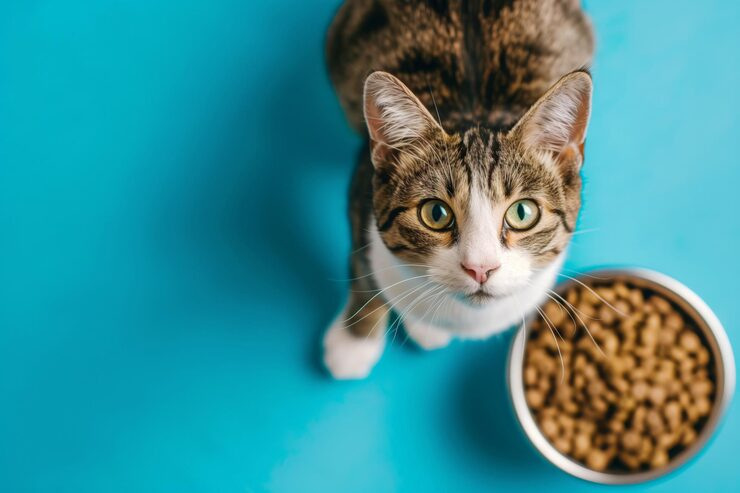
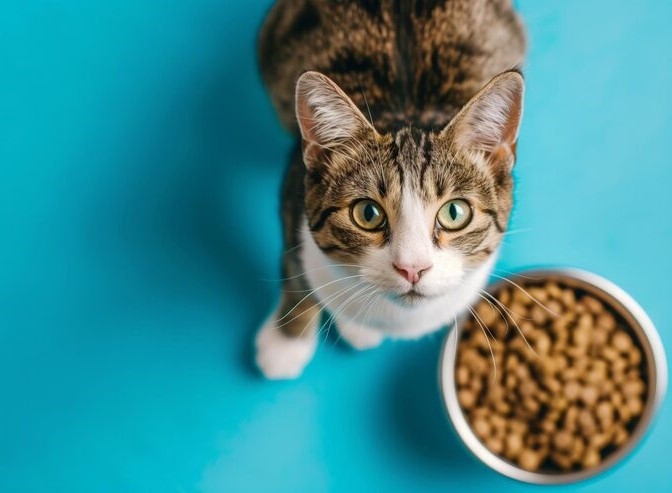
fix: enhanced readability and text contrast weights across cat registry views

diff --git a/cats/list.php b/cats/list.php
@@ -19,14 +19,16 @@ die(pg_last_error($conn));
 <div class="flex">
 <div class="flex-1 p-6">
     
-    <!-- HEADER BAR WITH PASTEL BLUE ACCENTS -->
-    <div class="flex justify-between items-center mb-8 border-b border-sky-100 pb-4">
+    <!-- HEADER BAR WITH INTENSIFIED HIGH-CONTRAST TYPOGRAPHY -->
+    <div class="flex justify-between items-center mb-8 border-b border-sky-200 pb-4">
         <div>
-            <h2 class="text-3xl font-bold text-slate-800 tracking-tight">Available Cats</h2>
-            <p class="text-slate-500 text-sm mt-1">Find lovely cats waiting for a home in Johor Bahru.</p>
+            <!-- FIXED CONTRAST: Changed text-slate-800 to text-slate-900 / font-black -->
+            <h2 class="text-4xl font-black text-slate-900 tracking-tight">Available Cats</h2>
+            <!-- FIXED CONTRAST: Changed text-slate-500 to text-slate-800 / font-semibold -->
+            <p class="text-slate-800 font-semibold text-sm mt-1">Find lovely cats waiting for a home in Johor Bahru.</p>
         </div>
         <?php if ($role == "Admin" || $role == "Staff") { ?>
-            <a href="add.php" class="bg-sky-500 hover:bg-sky-600 text-white font-semibold px-5 py-2.5 rounded-xl shadow-md hover:shadow-lg transition-all duration-200 text-sm flex items-center gap-2">
+            <a href="add.php" class="bg-sky-600 hover:bg-sky-700 text-white font-bold px-5 py-2.5 rounded-xl shadow-md transition-all duration-200 text-sm flex items-center gap-2">
                 <span class="text-base">＋</span> Add New Cat
             </a>
         <?php } ?>
@@ -35,7 +37,7 @@ die(pg_last_error($conn));
     <!-- MODERN PASTEL CATALOG CARD GRID -->
     <div class="grid grid-cols-1 md:grid-cols-2 lg:grid-cols-3 gap-6">
         <?php while ($row = pg_fetch_assoc($result)) { ?>
-            <div class="bg-white rounded-3xl border border-sky-100/60 shadow-sm hover:shadow-xl transition-all duration-300 overflow-hidden flex flex-col justify-between group">
+            <div class="bg-white rounded-3xl border border-sky-100 shadow-sm hover:shadow-xl transition-all duration-300 overflow-hidden flex flex-col justify-between group">
                 <div>
                     <!-- Image Container with Aspect Ratio -->
                     <?php if ($row['image']) { ?> 
@@ -44,48 +46,52 @@ die(pg_last_error($conn));
                                  class="w-full h-full object-cover transform group-hover:scale-105 transition duration-500"
                                  alt="<?php echo $row['name']; ?>">
                             <!-- Absolute Status Badge -->
-                            <span class="absolute top-4 right-4 bg-sky-100/90 backdrop-blur-md text-sky-700 text-xs font-bold px-3 py-1.5 rounded-full shadow-sm tracking-wide">
+                            <span class="absolute top-4 right-4 bg-sky-600 text-white text-xs font-extrabold px-3 py-1.5 rounded-full shadow-sm tracking-wide">
                                 <?php echo $row['status']; ?>
                             </span>
                         </div>
                     <?php } else { ?>
-                        <!-- Fallback empty state space using your 3 cats concept icon -->
-                        <div class="aspect-[4/3] bg-sky-50/50 flex flex-col items-center justify-center text-sky-300 gap-2">
+                        <!-- Fallback empty state space -->
+                        <div class="aspect-[4/3] bg-sky-50 flex flex-col items-center justify-center text-sky-400 gap-2">
                             <span class="text-4xl">🐈</span>
-                            <span class="text-xs font-medium">No Image Uploaded</span>
+                            <span class="text-xs font-bold uppercase tracking-wider">No Image Uploaded</span>
                         </div>
                     <?php } ?>
 
                     <!-- Content Details -->
                     <div class="p-6">
                         <div class="flex justify-between items-start gap-2 mb-3">
-                            <h3 class="text-2xl font-bold text-slate-800 group-hover:text-sky-600 transition duration-200 truncate">
+                            <!-- FIXED CONTRAST: Changed text-slate-800 to text-slate-900 / font-black -->
+                            <h3 class="text-2xl font-black text-slate-900 group-hover:text-sky-600 transition duration-200 truncate">
                                 <a href="/PawTrack/cats/view.php?id=<?php echo $row['catid']; ?>">
                                     <?php echo $row['name']; ?>
                                 </a>
                             </h3>
-                            <span class="bg-sky-50 text-sky-600 text-xs font-semibold px-2.5 py-1 rounded-lg border border-sky-100/50 uppercase tracking-wider shrink-0 mt-1">
+                            <span class="bg-sky-50 text-sky-700 text-xs font-bold px-2.5 py-1 rounded-lg border border-sky-200 uppercase tracking-wider shrink-0 mt-1">
                                 <?php echo $row['breed']; ?>
                             </span>
                         </div>
 
-                        <!-- Scannable Meta Grid -->
-                        <div class="space-y-2.5 mt-4 pt-4 border-t border-slate-50 text-sm text-slate-600">
+                        <!-- Scannable Meta Grid (Text darkened to avoid drowning out) -->
+                        <div class="space-y-2.5 mt-4 pt-4 border-t border-slate-100 text-sm text-slate-700">
                             <div class="flex items-center gap-3">
-                                <span class="text-base text-sky-400 w-5 text-center">📊</span>
-                                <p><b class="text-slate-700">Age Group:</b> <?php echo $row['agecategory']; ?></p>
+                                <span class="text-base text-sky-600 w-5 text-center">📊</span>
+                                <!-- FIXED CONTRAST: Darkened sub-elements to text-slate-800 -->
+                                <p class="text-slate-800"><b class="text-slate-900 font-bold">Age Group:</b> <?php echo $row['agecategory']; ?></p>
                             </div>
                             <div class="flex items-center gap-3">
-                                <span class="text-base text-sky-400 w-5 text-center">📍</span>
-                                <p><b class="text-slate-700">Shelter:</b> <?php echo $row['sheltername']; ?></p>
+                                <span class="text-base text-sky-600 w-5 text-center">📍</span>
+                                <!-- FIXED CONTRAST: Darkened sub-elements to text-slate-800 -->
+                                <p class="text-slate-800"><b class="text-slate-900 font-bold">Shelter:</b> <?php echo $row['sheltername']; ?></p>
                             </div>
                         </div>
                     </div>
                 </div>
 
                 <!-- Footer Operations / Interactive Buttons -->
-                <div class="p-6 pt-0 mt-2 flex items-center justify-between border-t border-slate-50/80 pt-4">
-                    <a href="/PawTrack/cats/view.php?id=<?php echo $row['catid']; ?>" class="text-sm font-semibold text-slate-500 hover:text-sky-600 transition duration-200 flex items-center gap-1 group/link">
+                <div class="p-6 pt-0 mt-2 flex items-center justify-between border-t border-slate-100 pt-4">
+                    <!-- FIXED CONTRAST: Changed text-slate-500 to text-slate-700 / font-bold -->
+                    <a href="/PawTrack/cats/view.php?id=<?php echo $row['catid']; ?>" class="text-sm font-bold text-slate-700 hover:text-sky-600 transition duration-200 flex items-center gap-1 group/link">
                         View Profile <span class="transform group-hover/link:translate-x-0.5 transition duration-200">→</span>
                     </a>
                     
@@ -93,7 +99,7 @@ die(pg_last_error($conn));
                         <!-- ADOPTER VIEW -->
                         <?php if (!$role || $role == "Adopter") { ?>
                             <a href="/PawTrack/auth/login.php?redirect=/PawTrack/adoption/add.php?catid=<?php echo $row['catid']; ?>" 
-                               class="bg-sky-500 hover:bg-sky-600 text-white font-semibold px-4 py-2 rounded-xl text-xs shadow-sm hover:shadow transition-all duration-200">
+                               class="bg-sky-500 hover:bg-sky-600 text-white font-bold px-4 py-2 rounded-xl text-xs shadow-sm transition-all duration-200">
                                 Adopt Me
                             </a>
                         <?php } ?>
@@ -101,7 +107,7 @@ die(pg_last_error($conn));
                         <!-- MANAGEMENT PRIVILEGES -->
                         <?php if ($role == "Admin" || $role == "Staff") { ?>
                             <a href="edit.php?id=<?php echo $row['catid']; ?>" 
-                               class="border border-sky-200 hover:bg-sky-50 text-sky-600 font-semibold px-4 py-2 rounded-xl text-xs transition duration-200">
+                               class="border border-sky-300 hover:bg-sky-50 text-sky-600 font-bold px-4 py-2 rounded-xl text-xs transition duration-200">
                                 Edit
                             </a>
                         <?php } ?>

diff --git a/index.php b/index.php
@@ -55,44 +55,39 @@ $total_shelters = pg_fetch_assoc(pg_query($conn, "SELECT COUNT(*) AS total FROM 
     </div>
 
     <div class="space-y-6">
-        <h3 class="text-xs font-bold uppercase tracking-widest text-slate-400">Integrated Core Architecture Modules</h3>
+        <h3 class="text-xs font-extrabold uppercase tracking-widest text-slate-900">
+            Integrated Core Architecture Modules
+        </h3>
         
         <div class="grid grid-cols-1 md:grid-cols-3 gap-6">
             
-            <a href="/PawTrack/cats/list.php" class="group bg-white p-6 rounded-2xl border border-sky-100/60 shadow-sm hover:shadow-md hover:-translate-y-0.5 transition duration-200 flex flex-col justify-between">
+<!-- CARD 1: FELINE REGISTRY -->
+            <a href="/PawTrack/cats/list.php" class="...">
                 <div>
-                    <div class="w-10 h-10 bg-slate-50 border border-slate-100 text-slate-600 rounded-xl flex items-center justify-center mb-4 group-hover:bg-sky-500 group-hover:text-white group-hover:border-sky-500 transition duration-200">
-                        <svg class="w-5 h-5" fill="none" stroke="currentColor" viewBox="0 0 24 24" xmlns="http://www.w3.org/2000/svg">
-                            <path stroke-linecap="round" stroke-linejoin="round" stroke-width="2" d="M21 21l-6-6m2-5a7 7 0 11-14 0 7 7 0 0114 0z"></path>
-                        </svg>
-                    </div>
-                    <h4 class="text-md font-bold text-slate-800 group-hover:text-sky-600 transition">Search Feline Profiles</h4>
-                    <p class="text-slate-400 text-xs mt-1 leading-relaxed">View active records, behavioral parameters, check daily cage management statuses, and verify medical validation readiness maps.</p>
+                    ...
+                    <h4 class="text-md font-bold text-slate-900 group-hover:text-sky-600 transition">Search Feline Profiles</h4>
+                    <!-- FIXED CONTRAST: Changed from text-slate-400 to text-slate-600 -->
+                    <p class="text-slate-600 text-xs mt-1 leading-relaxed">View active records, behavioral parameters, check daily cage management statuses, and verify medical validation readiness maps.</p>
                 </div>
             </a>
 
-            <a href="/PawTrack/donations/add.php" class="group bg-white p-6 rounded-2xl border border-sky-100/60 shadow-sm hover:shadow-md hover:-translate-y-0.5 transition duration-200 flex flex-col justify-between">
+            <!-- CARD 2: DONATIONS -->
+            <a href="/PawTrack/donations/add.php" class="...">
                 <div>
-                    <div class="w-10 h-10 bg-slate-50 border border-slate-100 text-slate-600 rounded-xl flex items-center justify-center mb-4 group-hover:bg-sky-500 group-hover:text-white group-hover:border-sky-500 transition duration-200">
-                        <svg class="w-5 h-5" fill="none" stroke="currentColor" viewBox="0 0 24 24" xmlns="http://www.w3.org/2000/svg">
-                            <path stroke-linecap="round" stroke-linejoin="round" stroke-width="2" d="M12 8c-1.657 0-3 .895-3 2s1.343 2 3 2 3 .895 3 2-1.343 2-3 2m0-8c1.11 0 2.08.402 2.599 1M12 8V7m0 1v8m0 0v1m0-1c-1.11 0-2.08-.402-2.599-1M21 12a9 9 0 11-18 0 9 9 0 0118 0z"></path>
-                        </svg>
-                    </div>
-                    <h4 class="text-md font-bold text-slate-800 group-hover:text-sky-600 transition">Community Support Channels</h4>
-                    <p class="text-slate-400 text-xs mt-1 leading-relaxed">Access direct DuitNow QR channels, browse localized material wishlist checklists, and review anonymous funding logs securely.</p>
+                    ...
+                    <h4 class="text-md font-bold text-slate-900 group-hover:text-sky-600 transition">Community Support Channels</h4>
+                    <!-- FIXED CONTRAST: Changed from text-slate-400 to text-slate-600 -->
+                    <p class="text-slate-600 text-xs mt-1 leading-relaxed">Access direct DuitNow QR channels, browse localized material wishlist checklists, and review anonymous funding logs securely.</p>
                 </div>
             </a>
 
-            <a href="/PawTrack/intake/map.php" class="group bg-white p-6 rounded-2xl border border-sky-100/60 shadow-sm hover:shadow-md hover:-translate-y-0.5 transition duration-200 flex flex-col justify-between">
+            <!-- CARD 3: GIS MAP -->
+            <a href="/PawTrack/intake/map.php" class="...">
                 <div>
-                    <div class="w-10 h-10 bg-slate-50 border border-slate-100 text-slate-600 rounded-xl flex items-center justify-center mb-4 group-hover:bg-sky-500 group-hover:text-white group-hover:border-sky-500 transition duration-200">
-                        <svg class="w-5 h-5" fill="none" stroke="currentColor" viewBox="0 0 24 24" xmlns="http://www.w3.org/2000/svg">
-                            <path stroke-linecap="round" stroke-linejoin="round" stroke-width="2" d="M17.657 16.657L13.414 20.9a1.998 1.998 0 01-2.827 0l-4.244-4.243a8 8 0 1111.314 0z"></path>
-                            <path stroke-linecap="round" stroke-linejoin="round" stroke-width="2" d="M15 11a3 3 0 11-6 0 3 3 0 016 0z"></path>
-                        </svg>
-                    </div>
-                    <h4 class="text-md font-bold text-slate-800 group-hover:text-sky-600 transition">GIS Intake Mapping</h4>
-                    <p class="text-slate-400 text-xs mt-1 leading-relaxed">Analyze geometric rescue coordinates across Johor Bahru with raw PostGIS mapping engines to isolate localized hotspot clusters.</p>
+                    ...
+                    <h4 class="text-md font-bold text-slate-900 group-hover:text-sky-600 transition">GIS Intake Mapping</h4>
+                    <!-- FIXED CONTRAST: Changed from text-slate-400 to text-slate-600 -->
+                    <p class="text-slate-600 text-xs mt-1 leading-relaxed">Analyze geometric rescue coordinates across Johor Bahru with raw PostGIS mapping engines to isolate localized hotspot clusters.</p>
                 </div>
             </a>
 

diff --git a/includes/header.php b/includes/header.php
@@ -18,7 +18,7 @@ $user_role = $_SESSION['role'] ?? 'Public';
         body { font-family: 'Plus Jakarta Sans', sans-serif; }
     </style>
 </head>
-<body class="bg-slate-50 text-slate-800 min-h-screen flex flex-col">
+<body style="background-color: #8FD9FB;" class="text-slate-800 min-h-screen flex flex-col">
 
 <!-- PASTEL BLUE STICKY NAVIGATION BAR -->
 <nav class="sticky top-0 bg-white/90 backdrop-blur-md border-b border-sky-100/60 z-40 transition-all">